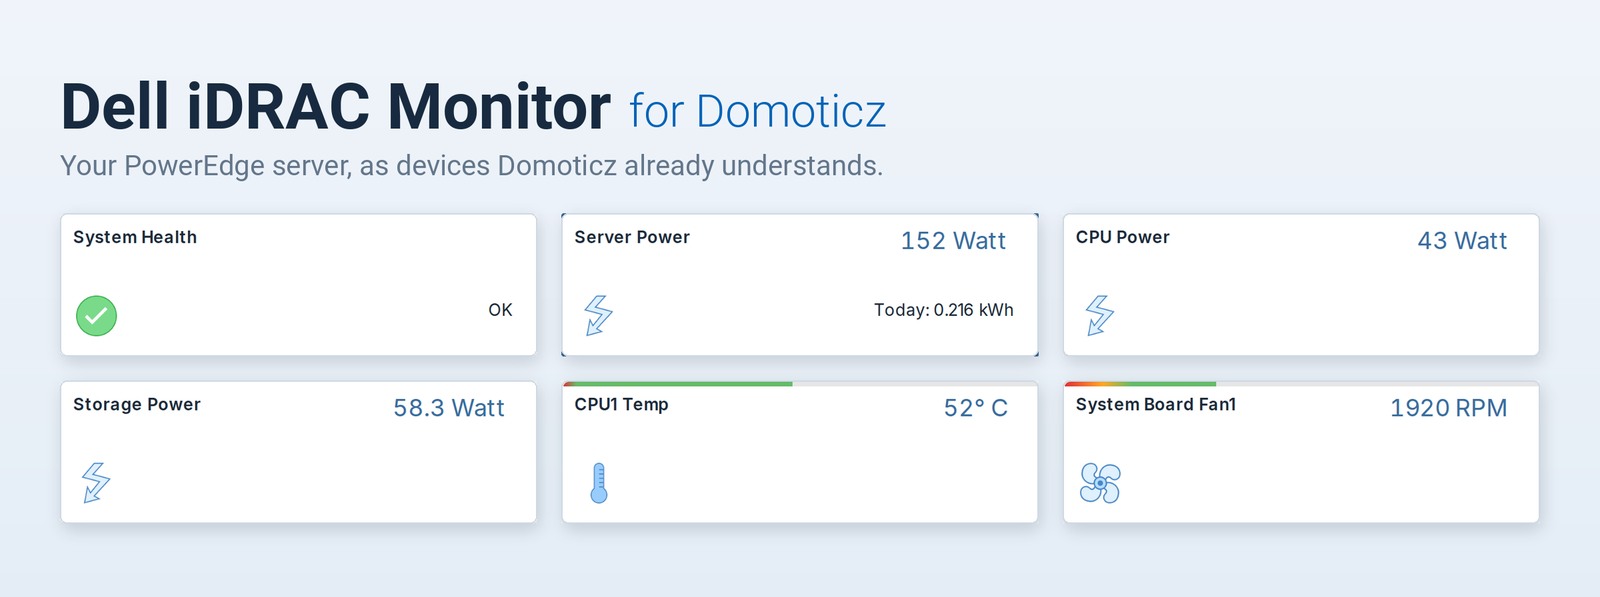
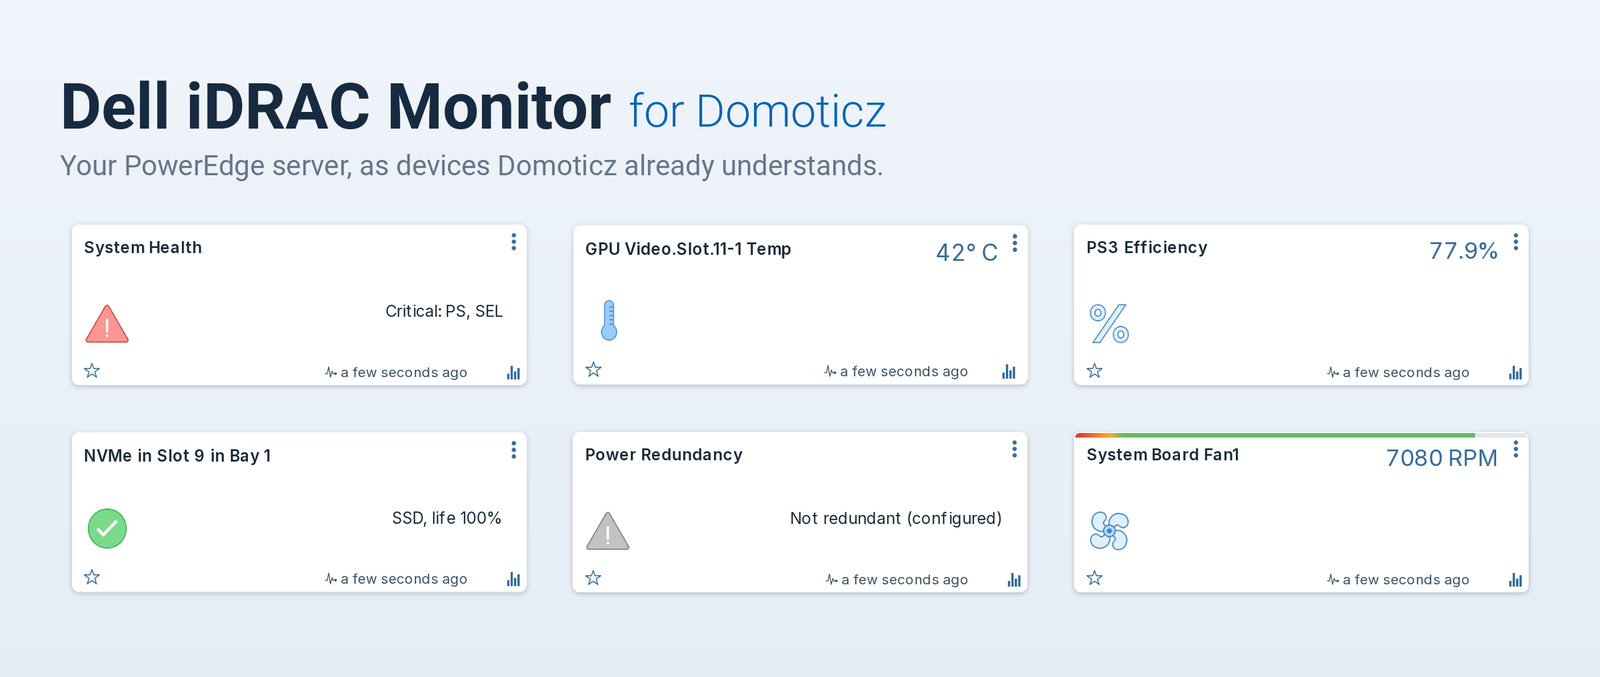
docs: cover the new devices, illustrate them, and add a support link
Documents the device name prefix and suffix with the token list and what
changing it renames, the NVMe and NonRAID drive names, GPU temperature without
a licence, power supply efficiency and the two reasons a redundancy group can
be absent.

Illustrates the states that prose describes badly with real device cards
captured from the plugin running against replayed captures: a red System
Health, a failed supply, a drive its own SMART has flagged, a drive under the
life threshold, efficiency, GPU power and temperature, an NVMe drive, and
Power Redundancy reading "Not redundant (configured)".

Corrects three pages that still said GPU support had never run against real
hardware. It has now, on a 7-card DSS8440 and a 4-card R7525, so the About page
records what the fleet run actually covered instead.

The hero is rebuilt from the same individually captured cards, which also
retires the old compositor's hardcoded pixel boxes: they had to be re-probed
by hand whenever the dashboard moved.

Adds a Ko-fi link on the GitHub sponsor button, in the README and in the
documentation footer. Documentation only. Nothing about running the plugin
changes and it never prompts.

diff --git a/docs/devices.md b/docs/devices.md
@@ -82,6 +82,17 @@ Colour comes from the Domoticz alert level, so a problem is visible on the dashb
 | HDD 0:2:9 | `HDD, life 4%` | amber | Below your **Drive life warning (%)** setting |
 | NIC NIC.Embedded.2-1-1 | `LinkDown` | amber | The port is down. A port with no link state at all reads grey `Unknown` |
 | Power State | `Off` | grey | Deliberately grey, not red: a server you shut down is not a fault |
+| Power Redundancy | `Not redundant (configured)` | grey | Redundancy is switched off on the server, so the missing group is intended rather than a fault |
+
+Four of those, as they actually appear:
+
+![System Health showing a raised fault, red](assets/cards/system-health-critical.png)
+
+![A failed power supply reading 0 Watt](assets/cards/psu-failed.png)
+
+![A drive whose own SMART prediction has flagged it](assets/cards/drive-failure-predicted.png)
+
+![A drive below the drive life warning threshold](assets/cards/drive-life-low.png)
 
 ## Storage device names and options
 
@@ -89,7 +100,13 @@ Colour comes from the Domoticz alert level, so a problem is visible on the dashb
 
 Dell names drives differently depending on which controller they sit behind, which reads badly when both appear in one list: a PERC calls a drive `Solid State Disk 0:2:0` while a BOSS boot card calls its pair `SSD 0` and `SSD 1`. The plugin shortens the long form and marks the boot card, so you get `SSD 0:2:0`, `HDD 0:2:3` and `BOSS SSD 0`.
 
-The media type comes from the server, so a bay holding a mix stays correctly labelled. A drive whose name is not one of Dell's two known forms is left exactly as the server reports it.
+A drive in pass-through mode keeps that qualifier, because it says something real about how the disk is attached: `NonRAID Solid State Disk 0:1:0` becomes `NonRAID SSD 0:1:0` rather than losing the word.
+
+**NVMe drives are named as such.** Dell reports one with `MediaType: SSD`, exactly like a SATA disk, and calls it `PCIe SSD in Slot 23 in Bay 2`; only the bus protocol distinguishes the two. Where the server reports a PCIe or NVMe protocol, the plugin uses `NVMe in Slot 23 in Bay 2` instead. The rename is driven by the reported protocol and never by the name, so a drive that merely reads like a PCIe device but is attached by SAS keeps the name the server gave it.
+
+![An NVMe drive device](assets/cards/drive-nvme.png)
+
+The media type comes from the server, so a bay holding a mix stays correctly labelled. A drive whose name is not one of Dell's known forms is left exactly as the server reports it.
 
 ### Drive life devices
 
@@ -178,13 +195,41 @@ So the plugin looks at what each report on your machine actually contains, rathe
 
 When telemetry **is** available, the Server Power device also switches to reporting `SystemInputPower`, which is what the wall socket actually delivers, rather than the mainboard sensor. That is typically a few percent higher, for example 160 W at the wall against 144 W at the board. Note that this makes a visible step in the energy graph at the point it switches over.
 
+### Power supply efficiency
+
+Where a supply reports both the AC it draws and the DC it delivers, the plugin adds a `PS1 Efficiency` device showing the ratio as a percentage. One per supply that reports both figures.
+
+This is real conversion loss, not an estimate. Measured across a fleet: a PowerEdge R750 under load ran at 93.3%, while an R440 idling at 32 W managed only 75.0%. That drop is expected and is the reason the device is interesting: a switching supply is least efficient when barely loaded, so a lightly used server wastes a larger share of what it draws than a busy one.
+
+No device appears when the figure would be meaningless, and nothing is written rather than a zero recorded:
+
+- **A supply on standby.** On a grid-redundant pair the idle feed reads a few watts in and zero out. That supply is doing nothing; it is not 0% efficient.
+- **Too light a load.** Below 25 W of input the ratio is mostly measurement granularity, because input is reported in whole watts and output in quarter watts.
+- **More output than input**, which cannot happen and means the sensor is wrong.
+
+A supply that never carries meaningful load therefore never gets an efficiency device at all, rather than getting one that sits empty.
+
+![A power supply efficiency device](assets/cards/psu-efficiency.png)
+
 ### GPUs
 
 Where telemetry reports them, each GPU gets a power device and a temperature device, named `GPU <slot> Power` and `GPU <slot> Temp`. Power is reported in milliwatts and converted, so a card drawing 39100 mW shows as 39.1 W.
 
 Cards are identified by the slot the server reports, including sub-indices, so a multi-GPU card occupying one slot appears as `Video.Slot.7-1` through `Video.Slot.7-4` rather than collapsing into one. A card that reports only one of the two figures gets only that device.
 
-GPU support is built from real captures but has not yet been confirmed on a live GPU server. If you have one, a report either way is welcome.
+![The power and temperature devices for one GPU](assets/cards/gpu-power.png)
+
+![The matching temperature device for the same card](assets/cards/gpu-temp.png)
+
+#### Without a telemetry licence
+
+Telemetry is licence-gated, but a GPU's temperature is usually also in the ordinary sensor list, where it costs nothing. When telemetry reports no cards, the plugin falls back to any sensor the server tags with the Redfish physical context `GPU` and creates a temperature device from it, under the name the server gives it, such as `GPU Temp 8` or `System Board SLOT5 Temp`.
+
+This is a fallback, never an addition: where telemetry does report cards, these sensors describe the same hardware again, so they are ignored rather than doubling every card's temperature device.
+
+It is temperature only. Per-card wattage still needs telemetry, because the sensor that carries GPU board power is not tagged with a physical context and could only be found by matching Dell-specific sensor ids, which would break on any other vendor.
+
+Measured on a PowerEdge R750 whose telemetry reported no GPU at all: the fallback found a card running at 74 °C that was previously invisible.
 
 ## System Health
 
@@ -207,6 +252,13 @@ It reads in plain English rather than in Redfish terms, for example `Redundant, 
 
 !!! note "When a supply is removed"
     Pulling a power supply does not mark the group Critical: the iDRAC **removes the redundancy group entirely**. The device then reads a grey `Not reported`, rather than keeping its last value and claiming redundancy that no longer exists. It is grey rather than red because the plugin cannot tell why the group vanished; look at System Health, which carries the iDRAC's own fault text in that situation.
+
+!!! note "When redundancy is switched off"
+    An empty redundancy group has a second, entirely benign cause: the server is **configured** not to be redundant, which is common on machines that need every supply delivering at once. The plugin reads Dell's own policy attribute to tell the two apart, and says so rather than leaving you to guess:
+
+    ![Power Redundancy reading Not redundant (configured)](assets/cards/power-redundancy-not-redundant.png)
+
+    Still grey rather than green. Not redundant is an intended state, not a healthy one to advertise.
 
 Only the first redundancy group is reported. Chassis that expose several groups will show only one. The device comes from the same payload as the power supplies, so it stops updating if you switch **Power supplies** off in [Settings](settings.md#devices).
 

diff --git a/docs/settings.md b/docs/settings.md
@@ -68,6 +68,83 @@ A fan spinning faster than this setting is not a problem: the bar simply reads f
 
 Changing this value updates the bars on the next poll, unless you have edited a fan's bands by hand, in which case your version is left alone.
 
+## Device names
+
+| Setting | Default | What it does |
+|---|---|---|
+| **Name prefix** | empty | Text put in front of every device name this plugin creates. |
+| **Name suffix** | empty | Text appended to every device name this plugin creates. |
+
+Both are empty by default, so an existing install is unaffected until you set one.
+
+### Why you would want this
+
+Device names are how dzVents looks devices up. The plugin names devices after the hardware, not after the server, so **two installs monitoring two servers produce the same names**: both create a device called `System Health`, both create `Inlet Temp`, both create `Server Power`. A dzVents lookup by name then silently picks one of them, and which one it picks is not something you can rely on.
+
+Measured across six PowerEdge servers, **59 of the 186 distinct device names collided**, including nearly every headline tile. If you monitor more than one server, set a prefix or a suffix on at least all but one of them.
+
+### The text is used exactly as you type it
+
+Nothing is added and nothing is trimmed, so **include your own separator**, and the trailing space if you want one:
+
+| You type | You get |
+|---|---|
+| `SERVER1 - ` | `SERVER1 - System Health` |
+| `SERVER1` | `SERVER1System Health` |
+| `_TESTSRV` (as suffix) | `System Health_TESTSRV` |
+
+The trailing space in the first row is doing real work and is invisible in the settings form. To let you check it, the plugin writes one finished example to the Domoticz log the first time it applies an affix:
+
+```
+device names look like "SERVER1 - System Health"
+```
+
+Each field accepts up to 24 characters. A longer value is cut to 24 and the plugin says so in the log.
+
+### Filling the name in from the server
+
+Rather than typing the server's name, you can use a token and let the plugin read it from the machine:
+
+| Token | What it expands to | Typical length |
+|---|---|---|
+| `{servicetag}` | Dell service tag, for example `65CBFV2` | 7 |
+| `{hostname}` | OS host name, **cut at the first dot** | 10-15 |
+| `{fqdn}` | OS host name exactly as reported | 12-27 |
+| `{idrac}` | The iDRAC's own DNS name | 13-20 |
+| `{model}` | Model, for example `PowerEdge R750` | 7-21 |
+
+So a prefix of `{servicetag} - ` gives `65CBFV2 - System Health`, and a suffix of ` [{model}]` gives `System Health [PowerEdge R750]`. Tokens and plain text mix freely: `{model} {servicetag} - ` works.
+
+`{hostname}` is cut at the first dot on purpose. Servers report host names inconsistently, some bare and some fully qualified, so passing the value straight through would give you `web01` on one machine and `web01.example.lan` on the next. Use `{fqdn}` if you genuinely want the whole thing.
+
+Two things to know before choosing one:
+
+- **`{model}` does not guarantee uniqueness.** Two identical servers report the same model. If your goal is to keep installs apart, `{servicetag}` is the only token that is unique per machine.
+- **`{hostname}` needs the iDRAC Service Module** installed on the server. Without it the iDRAC does not know the OS host name.
+
+If a token cannot be resolved, it expands to nothing and the plugin logs an error naming it. If that leaves the affix with no letters or digits at all, for example `{hostname} - ` on a machine that reports no host name, the affix is dropped completely rather than putting a stray ` - ` in front of every device.
+
+### What happens when you change it
+
+!!! warning "Changing this renames existing devices"
+    On the next poll the plugin renames every device it still owns, so **any dzVents script that looks those devices up by name stops finding them**. Update your scripts in the same sitting. Devices you renamed by hand are never touched, because the plugin only renames names it set itself.
+
+Setting a prefix on an install that already has devices is therefore a deliberate, one-off disruption, not a cosmetic change. Doing it before you write any automation is much easier than doing it after.
+
+### Duplicate name warnings
+
+The plugin warns you in the Domoticz log when the names it is about to use are already taken:
+
+```
+3 planned device name(s) already exist under hardware 'iDRAC T550': System Health,
+Inlet Temp, Server Power. A dzVents lookup by name cannot tell them apart; set a
+Name Prefix or Name Suffix.
+```
+
+This is checked once per plugin start, before any device is created, so the warning arrives on the first poll rather than after a full set of duplicates exists. It looks at **every** device in your Domoticz install, so it catches a second copy of this plugin, an unrelated piece of hardware that happens to own the name, and a dummy device you made yourself.
+
+The plugin only warns. It does not rename anything automatically to dodge a collision, because the name it invented would depend on which install happened to poll first, and an unpredictable name is no more useful to a script than a duplicate one.
+
 ## Control
 
 | Setting | Default | What it does |

diff --git a/CHANGELOG.md b/CHANGELOG.md
@@ -2,6 +2,29 @@
 
 All notable changes to this project are documented here. The format is based on [Keep a Changelog](https://keepachangelog.com/en/1.1.0/), and this project adheres to [Semantic Versioning](https://semver.org/spec/v2.0.0.html).
 
+## [Unreleased]
+
+### Added
+
+- **Device name prefix and suffix settings.** Two servers monitored by two installs otherwise produce identical device names, which makes a dzVents lookup by name ambiguous. The text is used exactly as typed, so it carries its own separator, and it may contain `{servicetag}`, `{hostname}`, `{fqdn}`, `{idrac}` or `{model}` tokens that the plugin fills in from the server. See [Device names](https://rouzax.github.io/dell-idrac-domoticz-plugin/settings/#device-names).
+- **A Ko-fi support link**, on the GitHub sponsor button, in the README and in the documentation footer. Documentation only: nothing about running the plugin changes, and it never prompts you.
+- **GPU temperature without a telemetry licence.** GPU metrics are licence-gated, but a card's temperature is usually also present in the ordinary sensor list. When telemetry reports no cards, the plugin now creates a temperature device from any sensor the server tags with the Redfish physical context `GPU`. It is a fallback, not an addition: where telemetry does report cards, these sensors are ignored so no card gets two temperature devices. Found a card running at 74 °C on a PowerEdge R750 whose telemetry reported no GPU at all.
+- **Power supply efficiency devices.** Where a supply reports both the AC it draws and the DC it delivers, a percentage device now shows the conversion efficiency. Measured across a fleet: 93.3% on a loaded R750, 75.0% on an idling R440. Nothing is written when the figure would be meaningless, so a supply on standby, a supply below 25 W of input, or a reading claiming more output than input produces no device rather than a misleading zero.
+- **Duplicate device name warnings.** The plugin now checks, once per start and before creating anything, whether the names it plans to use are already owned by another hardware entry, and names the owner in the log. It only warns; it never renames anything automatically to dodge a collision.
+
+### Changed
+
+- **Drives attached by PCIe are now named `NVMe`.** Dell reports an NVMe drive with `MediaType: SSD`, identical to a SATA disk, and names it `PCIe SSD in Slot 23 in Bay 2`; only the bus protocol distinguishes the two. The rename is driven by the protocol the server reports, never by the name, so a drive that merely reads like a PCIe device is untouched. `PCIe SSD in Slot 23 in Bay 2` becomes `NVMe in Slot 23 in Bay 2`.
+- **A RAID-state qualifier now survives the media-type shortening.** `NonRAID Solid State Disk 0:1:0` becomes `NonRAID SSD 0:1:0` rather than being left in full. The qualifier is kept because it says the disk is in pass-through mode rather than part of an array.
+
+  Both drive changes rename existing devices on the first poll after the update, for the drives concerned, unless you renamed them by hand. Any dzVents script that looks those drives up by name needs updating.
+
+- **Power Redundancy now distinguishes "switched off" from "not reported".** The Redfish redundancy list is empty both when a supply has been pulled and when the operator configured redundancy off, and the device said `Not reported` either way. It now reads `Not redundant (configured)` when Dell's own policy attribute says so. Verified across six servers, where the correlation was exact. Still grey rather than green: not redundant is an intended state, not a healthy one to advertise.
+
+### Fixed
+
+- **Wall-socket power could be silently missed on a server advertising many telemetry reports.** Reports were read in the order the server returned them, up to a fixed budget. A PowerEdge R440 lists 39 reports and puts `PowerMetrics`, the only one carrying `SystemInputPower`, at position 23, so it was never read: the Server Power device fell back to the mainboard sensor, which excludes the power supplies' own conversion loss, and nothing said so. Reports whose name suggests power are now read first. Which report is *used* is still decided by the metrics it actually contains, never by its name.
+
 ## [0.1.0] - 2026-08-19
 
 First release.

diff --git a/docs/about.md b/docs/about.md
@@ -6,12 +6,17 @@ A Domoticz plugin that monitors Dell PowerEdge servers through the iDRAC's Redfi
 
 It is **not affiliated with, endorsed by, or supported by Dell Technologies.** "Dell", "PowerEdge" and "iDRAC" are trademarks of their respective owners and are used here only to describe what the plugin talks to.
 
+## What it has been tested against
+
+Read live from a fleet of Dell PowerEdge machines spanning two generations: R440, R740xd2, DSS8440 (14G) and R750, R7525, R7515 (15G), on iDRAC firmware 7.00 and 7.20, both standalone and OpenManage-managed.
+
+That run covered several states a single test machine cannot produce: GPU power and temperature from a 7-card DSS8440 and a 4-card R7525, servers reporting Critical health from a latched event log with no fault text behind it, NVMe drives, drives in pass-through mode, and machines advertising 39 telemetry reports.
+
 ## What it has not been tested against
 
-- **GPU servers.** GPU power and temperature devices are built from real captures but have never run live against a machine with cards in it.
 - **iDRAC 7 and 8, and non-Dell Redfish.** Untested rather than known broken. The plugin discovers what a server offers instead of assuming it, so a missing endpoint should cost you that one subsystem rather than the whole poll.
 
-If you have either, a report saying it worked is as useful as one saying it did not.
+If you have one, a report saying it worked is as useful as one saying it did not.
 
 ## Requirements recap
 

diff --git a/README.md b/README.md
@@ -154,7 +154,6 @@ Two things worth knowing before you enable control:
 - The lifetime energy counter the iDRAC reports is not continuous across power-off periods, so the plugin integrates energy itself rather than trusting it. Energy accrued while Domoticz is not running is not recovered.
 - Only the first power redundancy group is reported.
 - Turning Allow Control back off leaves the two control devices in place. They are refused at the guard so no power action can get through, but they stay visible until you delete them.
-- GPU support is built and tested against sanitized captures from real GPU servers, but has not yet been run live against one.
 
 ## Contributing
 
@@ -166,6 +165,12 @@ python3 -m pytest
 ```
 
 Please keep new code covered and run `ruff check .` and `pyright` before opening a pull request.
+
+## Support
+
+Building tools that solve my own problems and sharing them in the hope they solve yours too. This one means you find out your server has a failing drive from your own dashboard, instead of the next time you happen to log into the iDRAC.
+
+[![ko-fi](https://ko-fi.com/img/githubbutton_sm.svg)](https://ko-fi.com/O0W221GBUG)
 
 ## License
 

diff --git a/docs/faq.md b/docs/faq.md
@@ -165,7 +165,7 @@ If neither appears, the plugin never got as far as trying. If the error appears,
 
 ### My GPUs do not appear
 
-GPU figures come from telemetry as well, so everything above applies first. Beyond that, GPU support is built and tested against sanitized captures from real GPU servers but has not yet been run live against one, so if you have the licence and the cards and still see nothing, that is worth reporting.
+GPU figures come from telemetry as well, so everything above applies first. GPU power and temperature have now been read live from two GPU servers, a 7-card Dell DSS8440 and a 4-card PowerEdge R7525. Cards that report temperature but no power, which both machines had, produce a temperature device on their own. If you have the licence and the cards and still see nothing, that is worth reporting.
 
 ## Control
 
